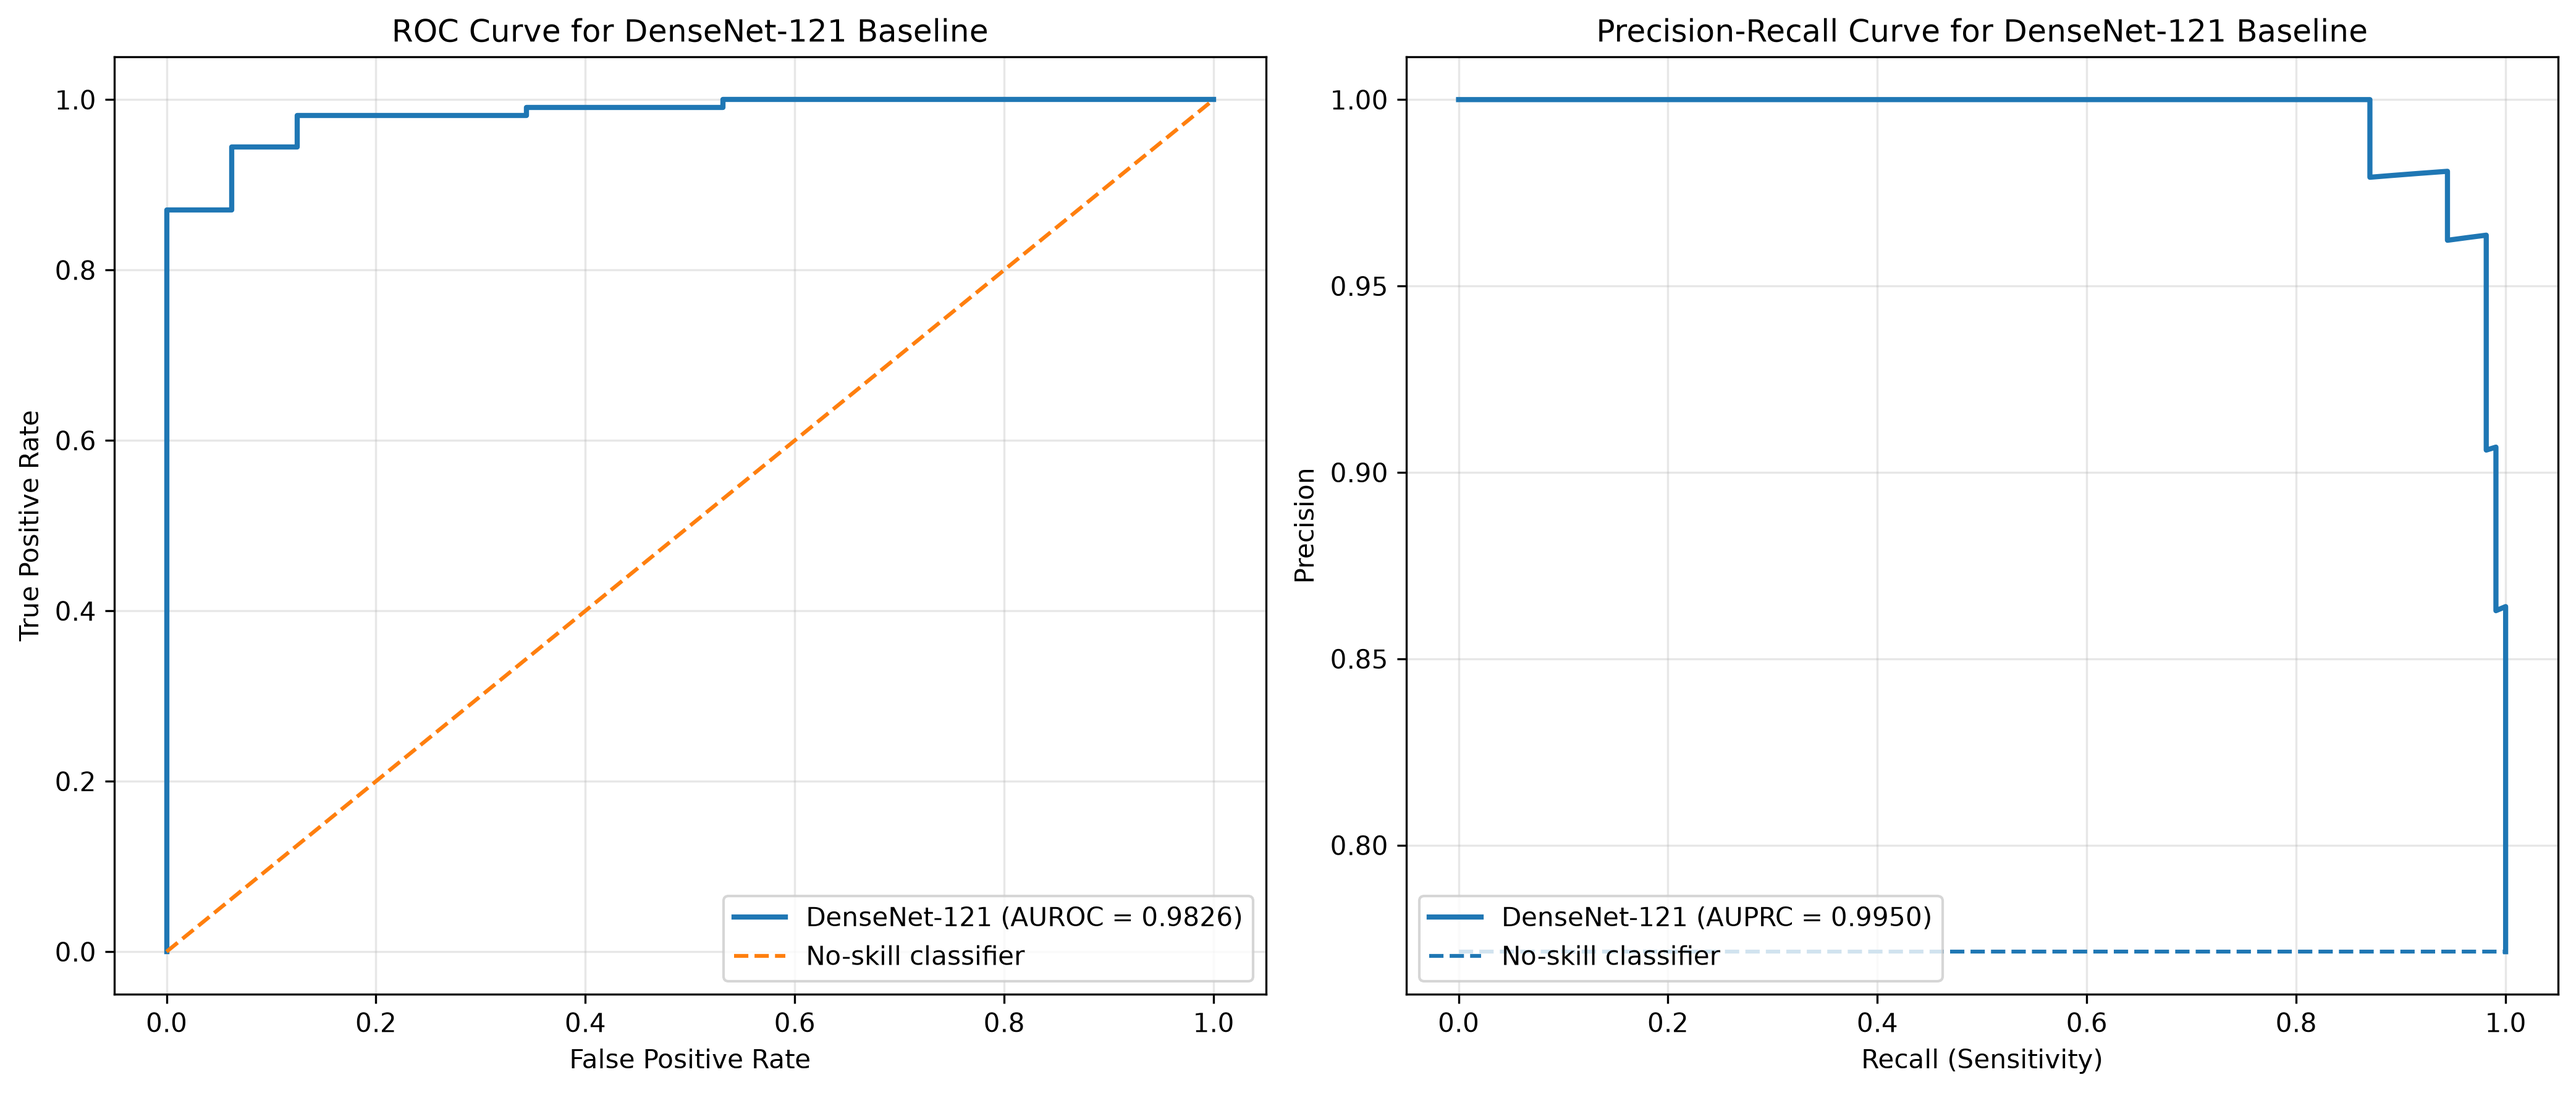
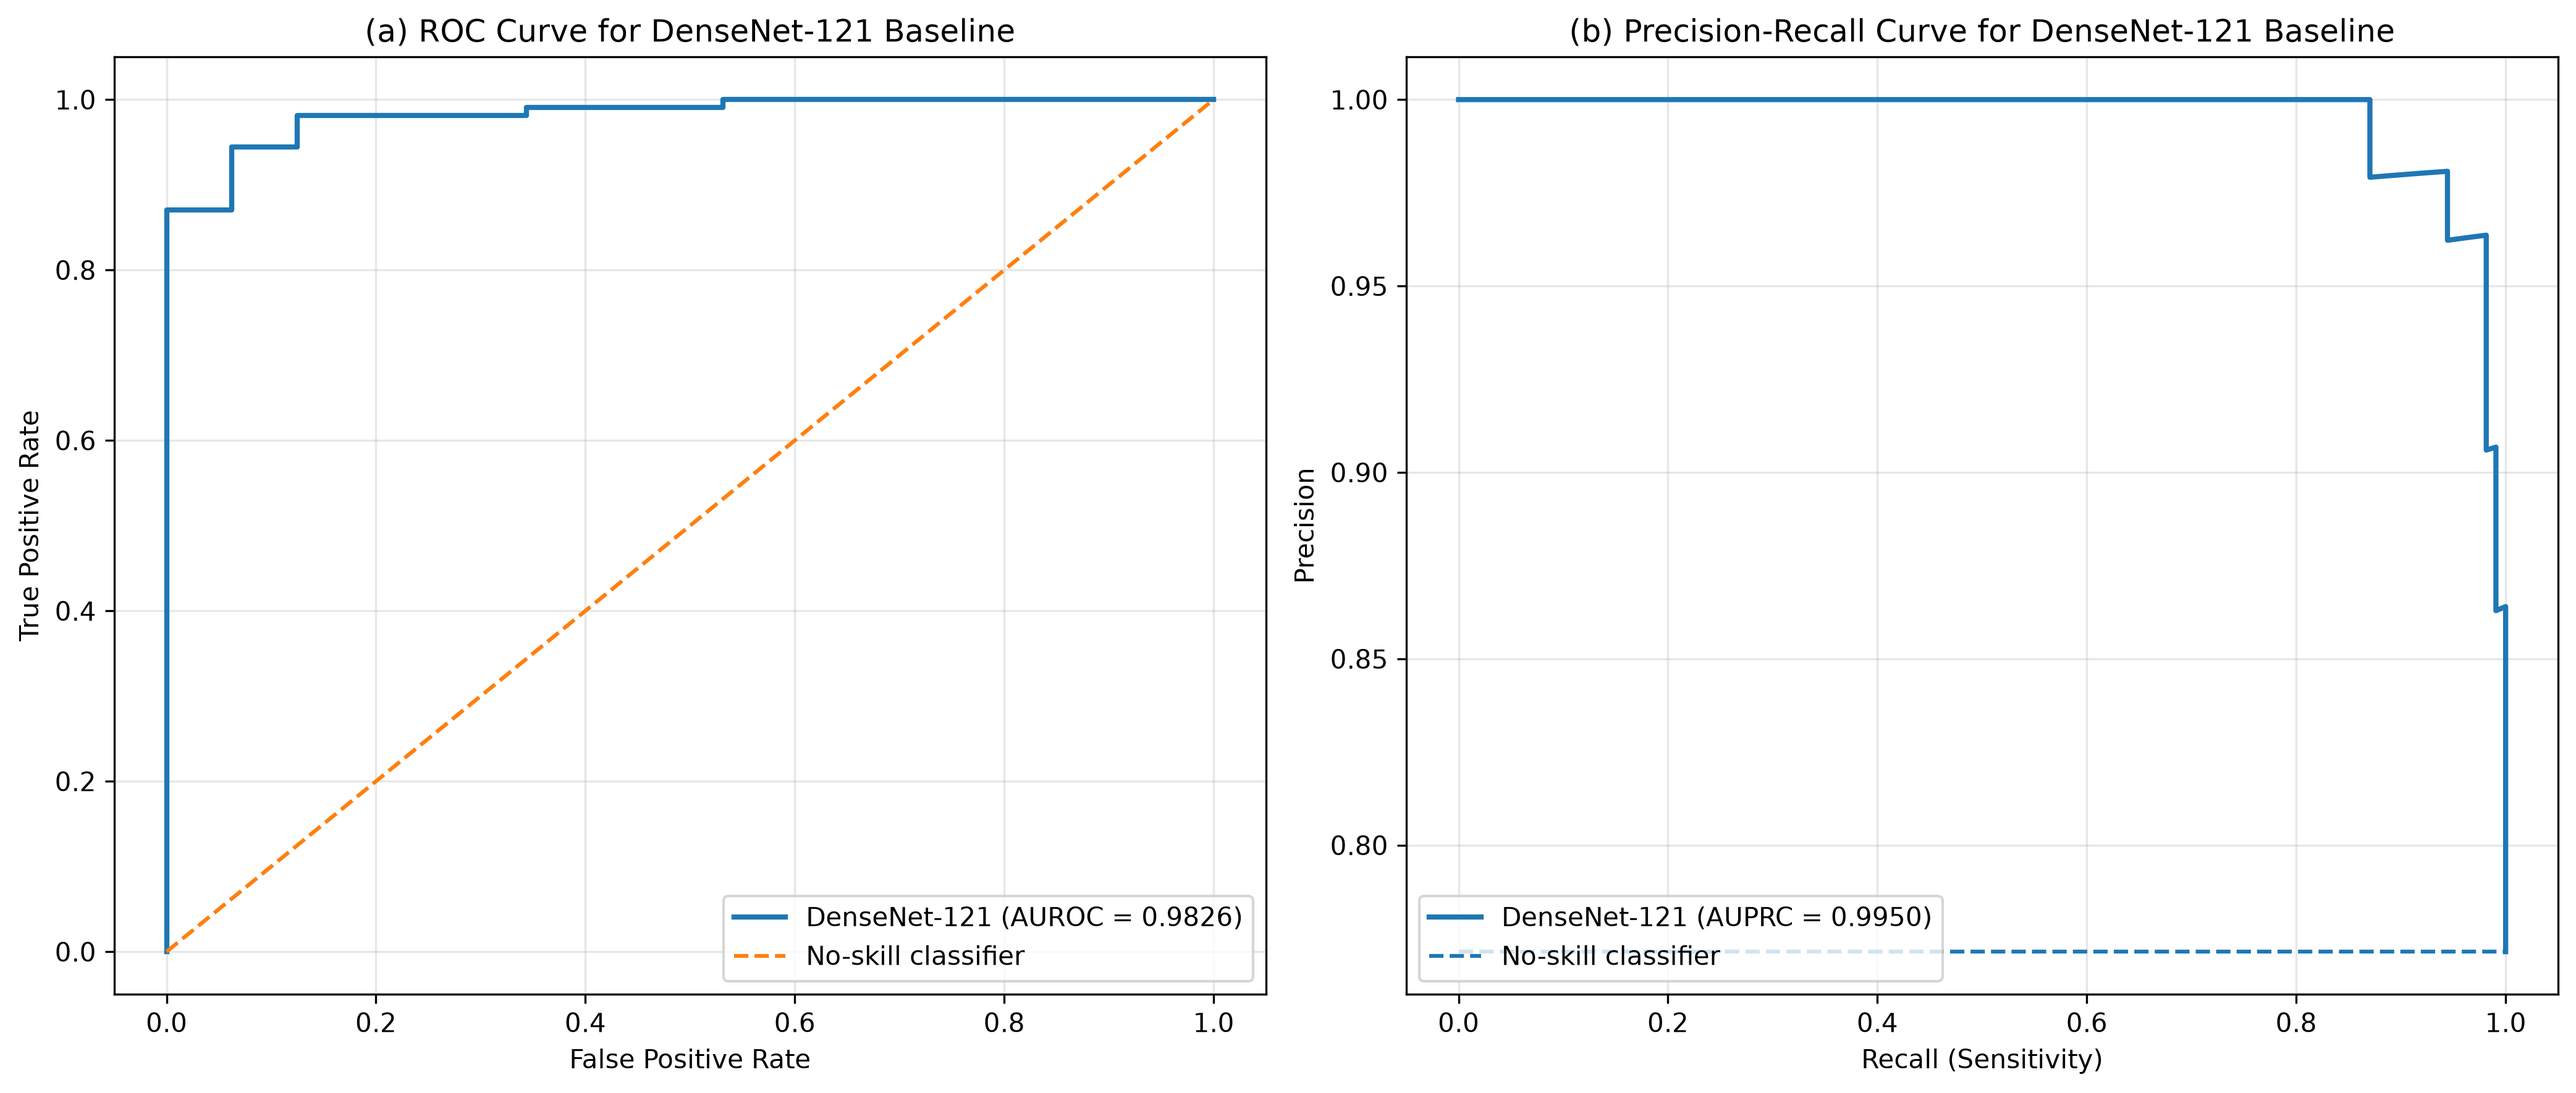
Edited the figures for roc pr curves

Changed region(s): [[0.6237, 0.0, 0.9355, 0.0621], [0.1559, 0.0, 0.4054, 0.0621]]

diff --git a/src/plotting/efficientnetb4_roc_pr.py b/src/plotting/efficientnetb4_roc_pr.py
@@ -80,7 +80,7 @@ axes[0].plot(
 
 axes[0].set_xlabel("False Positive Rate")
 axes[0].set_ylabel("True Positive Rate")
-axes[0].set_title("ROC Curve for EfficientNet-B4 Baseline")
+axes[0].set_title("(a) ROC Curve for EfficientNet-B4 Baseline")
 axes[0].legend(loc="lower right")
 axes[0].grid(alpha=0.3)
 
@@ -105,7 +105,7 @@ axes[1].hlines(
 
 axes[1].set_xlabel("Recall (Sensitivity)")
 axes[1].set_ylabel("Precision")
-axes[1].set_title("Precision-Recall Curve for EfficientNet-B4 Baseline")
+axes[1].set_title("(b) Precision-Recall Curve for EfficientNet-B4 Baseline")
 axes[1].legend(loc="lower left")
 axes[1].grid(alpha=0.3)
 

diff --git a/src/plotting/resnet50_de_roc_pr.py b/src/plotting/resnet50_de_roc_pr.py
@@ -82,7 +82,7 @@ axes[0].plot(
 
 axes[0].set_xlabel("False Positive Rate")
 axes[0].set_ylabel("True Positive Rate")
-axes[0].set_title("ROC Curve for ResNet-50 Deep Ensemble")
+axes[0].set_title("(a) ROC Curve for ResNet-50 Deep Ensemble")
 axes[0].legend(loc="lower right")
 axes[0].grid(alpha=0.3)
 
@@ -107,7 +107,7 @@ axes[1].hlines(
 
 axes[1].set_xlabel("Recall (Sensitivity)")
 axes[1].set_ylabel("Precision")
-axes[1].set_title("Precision-Recall Curve for ResNet-50 Deep Ensemble")
+axes[1].set_title("(b) Precision-Recall Curve for ResNet-50 Deep Ensemble")
 axes[1].legend(loc="lower left")
 axes[1].grid(alpha=0.3)
 

diff --git a/src/plotting/resnet50_mc_roc_pr.py b/src/plotting/resnet50_mc_roc_pr.py
@@ -82,7 +82,7 @@ axes[0].plot(
 
 axes[0].set_xlabel("False Positive Rate")
 axes[0].set_ylabel("True Positive Rate")
-axes[0].set_title("ROC Curve for ResNet-50 + MC Dropout")
+axes[0].set_title("(a) ROC Curve for ResNet-50 + MC Dropout")
 axes[0].legend(loc="lower right")
 axes[0].grid(alpha=0.3)
 
@@ -107,7 +107,7 @@ axes[1].hlines(
 
 axes[1].set_xlabel("Recall (Sensitivity)")
 axes[1].set_ylabel("Precision")
-axes[1].set_title("Precision-Recall Curve for ResNet-50 + MC Dropout")
+axes[1].set_title("(b) Precision-Recall Curve for ResNet-50 + MC Dropout")
 axes[1].legend(loc="lower left")
 axes[1].grid(alpha=0.3)
 

diff --git a/src/plotting/densenet121_roc_pr.py b/src/plotting/densenet121_roc_pr.py
@@ -80,7 +80,7 @@ axes[0].plot(
 
 axes[0].set_xlabel("False Positive Rate")
 axes[0].set_ylabel("True Positive Rate")
-axes[0].set_title("ROC Curve for DenseNet-121 Baseline")
+axes[0].set_title("(a) ROC Curve for DenseNet-121 Baseline")
 axes[0].legend(loc="lower right")
 axes[0].grid(alpha=0.3)
 
@@ -105,7 +105,7 @@ axes[1].hlines(
 
 axes[1].set_xlabel("Recall (Sensitivity)")
 axes[1].set_ylabel("Precision")
-axes[1].set_title("Precision-Recall Curve for DenseNet-121 Baseline")
+axes[1].set_title("(b) Precision-Recall Curve for DenseNet-121 Baseline")
 axes[1].legend(loc="lower left")
 axes[1].grid(alpha=0.3)
 

diff --git a/src/plotting/resnet50_roc_pr.py b/src/plotting/resnet50_roc_pr.py
@@ -80,7 +80,7 @@ axes[0].plot(
 
 axes[0].set_xlabel("False Positive Rate")
 axes[0].set_ylabel("True Positive Rate")
-axes[0].set_title("ROC Curve for ResNet-50 Baseline")
+axes[0].set_title("(a) ROC Curve for ResNet-50 Baseline")
 axes[0].legend(loc="lower right")
 axes[0].grid(alpha=0.3)
 
@@ -105,7 +105,7 @@ axes[1].hlines(
 
 axes[1].set_xlabel("Recall (Sensitivity)")
 axes[1].set_ylabel("Precision")
-axes[1].set_title("Precision-Recall Curve for ResNet-50 Baseline")
+axes[1].set_title("(b) Precision-Recall Curve for ResNet-50 Baseline")
 axes[1].legend(loc="lower left")
 axes[1].grid(alpha=0.3)
 
